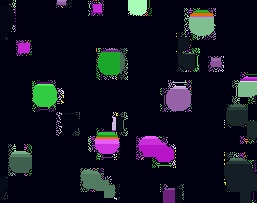
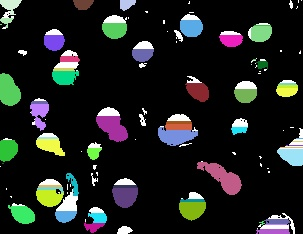
test

diff --git a/count_eggs_4.py b/count_eggs_4.py
@@ -7,7 +7,7 @@ from k_means_thresholding import k_means_thresholding
 from filtered_k_means_thresholding import filtered_k_means_thresholding
 
 
-def count_eggs_4(im1):
+def count_eggs_4(im1,min_comp_size):
     # mask = filtered_k_means_thresholding(im1)
     kernel2 = cv2.getStructuringElement(cv2.MORPH_ELLIPSE,(8,8))
     im2 = cv2.morphologyEx(im1,cv2.MORPH_OPEN,kernel2)
@@ -18,12 +18,15 @@ def count_eggs_4(im1):
     label_mask = np.zeros_like(mask,dtype=np.uint8)
     neighbour = [(-1,0),(1,0),(0,-1),(0,1)]
     label_count = 1
+
+    # First Pass of finding Connected Components
     for x in range(mask.shape[1]):
             for y in range(mask.shape[0]):
                 if mask[y,x] != 0:
                     label_low =  label_count
                     found = False
                     for i in range(4):
+                        # Check if neighbour is within the 
                         if 0<=y+neighbour[i][0]<mask.shape[0] and 0<=x+neighbour[i][1]<mask.shape[1]:
                             if mask[y+neighbour[i][0],x+neighbour[i][1]] != 0 and label_mask[y+neighbour[i][0],x+neighbour[i][1]] != 0:
                                 if label_mask[y+neighbour[i][0],x+neighbour[i][1]] < label_low:
@@ -33,7 +36,10 @@ def count_eggs_4(im1):
                         label_count += 1
                         # print(label_count)
                     label_mask[y,x] = label_low
+    plt.matshow(label_mask)
+    plt.show()
 
+    # Second Pass for finding connected components
     for x in range(label_mask.shape[1]):
         for y in range(label_mask.shape[0]):
             if mask[y,x] != 0:
@@ -43,7 +49,22 @@ def count_eggs_4(im1):
                         if 0<label_mask[y+neighbour[i][0],x+neighbour[i][1]]<label_low:
                             label_low = label_mask[y+neighbour[i][0],x+neighbour[i][1]]
                 label_mask[y,x] = label_low
+
+    plt.matshow(label_mask)
+    plt.show()
     
+    # Count Pixel size of each component
+    size_count = np.zeros(label_count)
+    for x in range(label_mask.shape[1]):
+        for y in range(label_mask.shape[0]):
+            size_count[label_mask[y,x]] += 1
+
+    for x in range(label_mask.shape[1]):
+        for y in range(label_mask.shape[0]):
+            if (size_count[label_mask[y,x]] < min_comp_size):
+                label_mask[y,x] = 0
+                size_count[label_mask[y,x]] -= 1
+
     prev = 0
     count = 0
     for x in range(label_mask.shape[1]):
@@ -51,16 +72,17 @@ def count_eggs_4(im1):
             if label_mask[y,x]>prev:
                 prev = label_mask[y,x]
                 count += 1
-    print('count is {}'.format(count))
-    print('prev is {}'.format(prev))
 
+    print('For Testing prev count is {}'.format(prev))
+    print('Egg count is {}'.format(count))
     
 
+    # gray_image = np.array((label_mask != 0),dtype=np.uint8)
 
-    color_img = cv2.cvtColor(label_mask,cv2.COLOR_GRAY2RGB)
-    color_img[:,:,0] = (color_img[:,:,0]+8)*2
-    color_img[:,:,1] = color_img[:,:,1]*3
-    color_img[:,:,2] = color_img[:,:,2]*2
+    color_img = cv2.cvtColor(im1,cv2.COLOR_GRAY2RGB)
+    color_img[:,:,0] = color_img[:,:,0] - label_mask * 40
+    color_img[:,:,1] = color_img[:,:,1] - label_mask * 12
+    color_img[:,:,2] = color_img[:,:,2] - label_mask * 42
     cv2.imshow('colour image',color_img)
     cv2.waitKey(0)
     return color_img
@@ -74,7 +96,7 @@ def count_eggs_4(im1):
 if __name__ == '__main__':
     # Map command line arguments to function arguments.
     im1 = cv2.imread(sys.argv[1],0)
-    x = int(sys.argv[2])
+    size = int(sys.argv[2])
     outputfile = sys.argv[3]
-    im = count_eggs_4(im1)
+    im = count_eggs_4(im1,size)
     cv2.imwrite(outputfile,im)

diff --git a/filtered_k_means_thresholding.py b/filtered_k_means_thresholding.py
@@ -9,7 +9,7 @@ from k_means_thresholding import k_means_thresholding
 def filtered_k_means_thresholding(im1):
     mask = k_means_thresholding(im1)
     kernel = np.ones((5,5),np.uint8)
-    kernel2 = cv2.getStructuringElement(cv2.MORPH_ELLIPSE,(8,8))
+    kernel2 = cv2.getStructuringElement(cv2.MORPH_ELLIPSE,(10,10))
     # mask_open = cv2.morphologyEx(mask,cv2.MORPH_OPEN,kernel)
     mask_open2 = cv2.morphologyEx(mask,cv2.MORPH_OPEN,kernel2)
     kernel2 = cv2.getStructuringElement(cv2.MORPH_ELLIPSE,(2,2))
@@ -32,4 +32,5 @@ if __name__ == '__main__':
     im1 = cv2.imread(sys.argv[1],0)
     outputfile = sys.argv[2]
     mask = filtered_k_means_thresholding(im1)
-    # cv2.imwrite(outputfile,mask)
+    cv2.imwrite(outputfile,mask)
+
